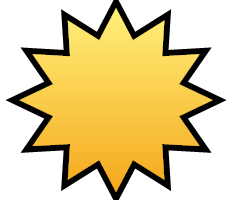
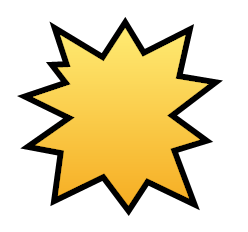
UVS: damage starburst traced from the print
The starburst is the print's uneven 11-point shape, traced from four FT01
cards, instead of a regular 12-point star. The damage number, badge and rim
move to the print's spot (about 6 units right, 5 down); badge box 124 x 116.

TEST ATTACK reference hash regenerated (intended render change).

Changed region(s): [[0.0302, 0.0, 0.9957, 1.0]]

diff --git a/ROADMAP.md b/ROADMAP.md
@@ -41,6 +41,7 @@ community-maintained version that the M15 template pack is built for. That versi
 | 2026-11-12 | P/T fix extended to borderless (altered), adventure and DFC (both faces), and all five frames now share one approach: a card-sized mask (two faces wide), cropped by each text box from its own `card_style.<field>` position and size, so scripted and chopped boxes still line up. Needed two engine fixes: `Style::update` now runs the mask script after the box's final size is worked out (it read a stale height for boxes given a `bottom`), and `AlphaMask` row right edges are one past the last white pixel (upstream made every masked box 1 px narrow, which wrapped a line that fit without a mask). DFC fronts also keep clear of the hovering back-face P/T. |
 | 2026-11-12 | UVS stat digits come from the real FT01 cards instead of being drawn with Figtree. The study showed the real digits are taller (130 units with outline), carry speed-line texture and a white inner line, and sit a few units off where we had them. The images are cut once by `tools/uvs-study/make_digits.py` (it needs the git-ignored scans) and committed; `make-uvs-assets.ps1` no longer draws digits, so rerunning it cannot overwrite them. 9, X and * never appear on real cards, so 9 is the 6 turned over and X/* are Figtree drawn with the real layers. |
 | 2026-11-12 | UVS speed badge redrawn after the FT01 and TK802 cuts: three arrows (up-right, right, down-right), the zone's one large and in the zone color, the other two small grey arrowheads. The old badge had two fixed black tips, so it did not show the zone at all. The arrows reach past the old 116 x 100 box, so the badge and rim boxes are now 136 x 124, moved up 12 units so the circle (and the speed number on it) stays where it was. The rim is per zone (`speed-rim-<zone>.png`) so it hugs the small grey arrows. Shield tabs were checked and already matched. |
+| 2026-11-12 | UVS damage starburst traced from FT01 cards 016, 017, 019 and 020 (all identical): 11 uneven points, stored as angle/radius pairs in `make-uvs-assets.ps1` and set in by half the outline width so the drawn outer edge lands on the trace. Our damage number sat about 6 units left of and 5 above the print's, so the number, badge and rim moved to the print's spot (center 655, 756); the badge box is now 124 x 116. Fill colors unchanged. |
 
 ## Phase 0: Baseline
 
@@ -132,7 +133,7 @@ copies 11 packages (180 MB, including the English spell-check dictionary):
 - [x] Study of 3,816 real cards, their text and the How to Play guide: layout, official badge cuts, game rules and balance tables (`claude/uvs-study.md`, scripts in `tools/uvs-study/`, material in git-ignored `study/`)
 - [x] Stat digits are the official FT01 glyphs (`tools/uvs-study/make_digits.py`): real fill, white line and outline for 0-8, 9 from the 6 turned over, X and * drawn to match; check digits get the real blue gradient. Boxes moved to the real glyph spots (130 x 160 at 24,10 and 586.5,807.5)
 - [x] Check shield tabs and speed arrows against the cuts (study section 6): shields already matched; speed badges redrawn (zone arrow in the zone color, grey arrowheads on the other two directions)
-- [ ] Damage starburst with uneven points like the print (optional)
+- [x] Damage starburst traced from the print (uneven 11 points); number and badge moved to the print's spot
 - [ ] Holo mask export for rare cards (the user prints on a proxy site and wants holo on some rares)
 - [ ] Keyword boxes in rules text (`QUEST: 1`, `ECHO`, `STUN: 2`), zone icons
 - [ ] `uvs-2026-arena.mse-style` (landscape); B sides are done (face field, number suffix)

diff --git a/claude/uvs-study.md b/claude/uvs-study.md
@@ -112,6 +112,6 @@ Characters have 2 or 3 symbols (98%), one or two traits, and usually 2 abilities
 ## 6. What this means for the template (proposed next steps)
 
 1. Done 2026-11-12: the digits are the FT01 glyphs (`tools/uvs-study/make_digits.py`).
-2. Done 2026-11-12: shields matched already; speed badges redrawn with the zone arrow. Damage still differs a little (the print's starburst has uneven points; ours is a regular 12-point star).
+2. Done 2026-11-12: shields matched already; speed badges redrawn with the zone arrow. Damage starburst redrawn the same day: the print's uneven 11 points, traced from four FT01 cards, with the number moved to the print's spot (center 655, 756).
 3. Per-set number styles as a Set info option, starting with the TK802 squared face (cuts already exist).
 4. Optional: a "balance hint" in `/card` that warns when an attack's speed + damage is far off the table above.
